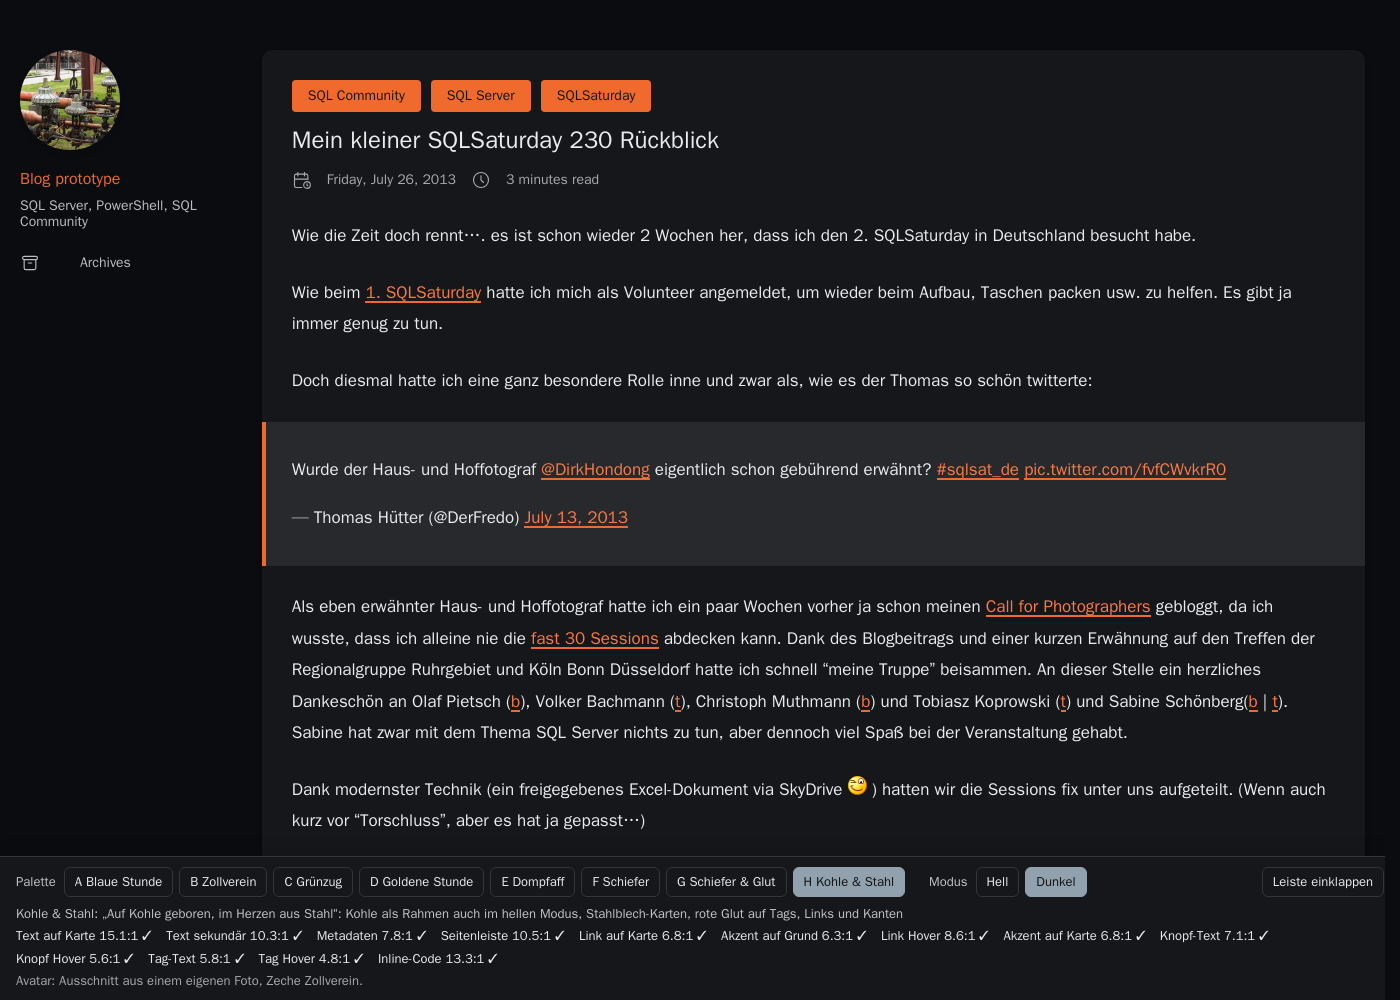
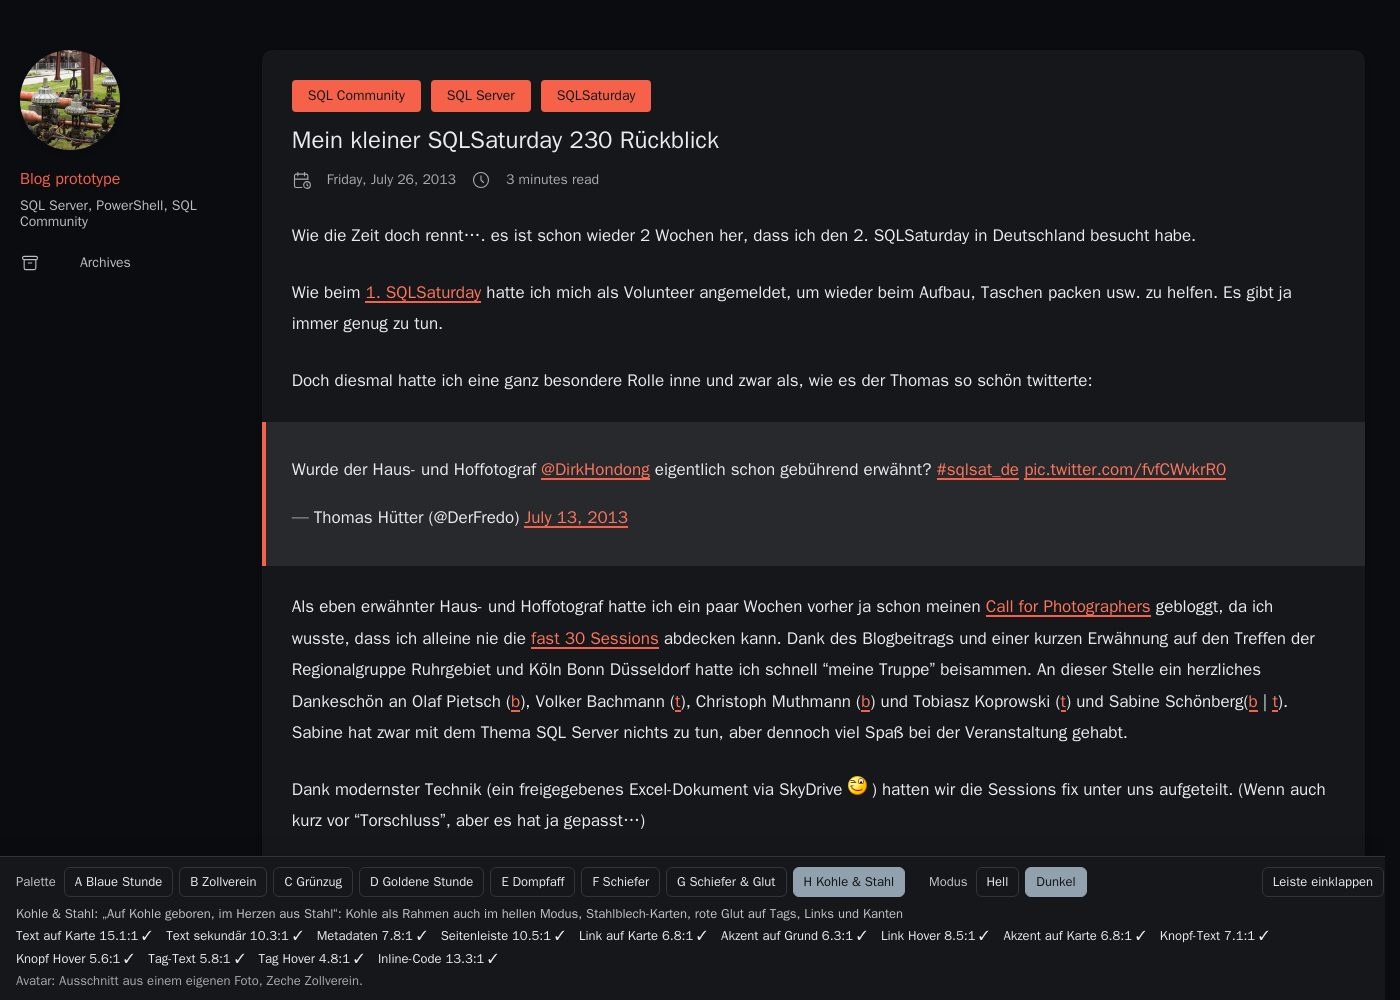
prototype: redder ember in H Kohle & Stahl, the chosen palette

Changed region(s): [[0.1843, 0.062, 0.4607, 0.124]]

diff --git a/prototype-colors/site/assets/scss/custom.scss b/prototype-colors/site/assets/scss/custom.scss
@@ -380,13 +380,13 @@
     --table-border-color: #cdd2d6;
     --accent-color: #364451;
     --accent-color-darker: #24323e;
-    --proto-link: #b5360e;
-    --proto-link-hover: #982700;
+    --proto-link: #b83025;
+    --proto-link-hover: #a0110c;
     --proto-glow-text: #12171b;
-    --proto-glow: #f1652e;
-    --proto-glow-hover: #df5519;
-    --proto-ground-accent: #f1652e;
-    --link-background-color: 251, 185, 162;
+    --proto-glow: #f55e47;
+    --proto-glow-hover: #e34d38;
+    --proto-ground-accent: #f55e47;
+    --link-background-color: 253, 182, 169;
 }
 
 :root[data-palette="h"][data-scheme="dark"] {
@@ -406,13 +406,13 @@
     --table-border-color: #45484b;
     --accent-color: #91a1ad;
     --accent-color-darker: #7f8f9a;
-    --proto-link: #fa7a45;
-    --proto-link-hover: #ff9971;
+    --proto-link: #fd765d;
+    --proto-link-hover: #fe9783;
     --proto-glow-text: #12171b;
-    --proto-glow: #f06a2e;
-    --proto-glow-hover: #de5a18;
-    --proto-ground-accent: #f06a2e;
-    --link-background-color: 133, 61, 31;
+    --proto-glow: #f56249;
+    --proto-glow-hover: #e35239;
+    --proto-ground-accent: #f56249;
+    --link-background-color: 136, 57, 43;
 }
 
 /* Single-colour category and tag pills instead of Stack's hashed rainbow (inline style, hence !important) */

diff --git a/prototype-colors/scripts/palettes.py b/prototype-colors/scripts/palettes.py
@@ -24,7 +24,7 @@ VARIANTS = [
          glow=(72, 0.150, 0.80), dark_glow=(74, 0.140, 0.80), dark_spot=(74, 0.130, 0.80)),
     dict(id='h', light_L=0.38, name='Kohle & Stahl', origin='„Auf Kohle geboren, im Herzen aus Stahl“: Kohle als Rahmen auch im hellen Modus, Stahlblech-Karten, rote Glut auf Tags, Links und Kanten',
          neutral=(245, 0.008), accent=(245, 0.028), dark_neutral=(250, 0.006), dark_accent=(240, 0.025),
-         glow=(40, 0.185, 0.66), dark_glow=(42, 0.180, 0.68), spot=(36, 0.170, 0.52), dark_spot=(42, 0.170, 0.72),
+         glow=(31, 0.190, 0.66), dark_glow=(32, 0.185, 0.68), spot=(29, 0.175, 0.52), dark_spot=(32, 0.170, 0.72),
          coal=True, dark_ground=0.155),
 ]
 

diff --git a/prototype-colors/README.md b/prototype-colors/README.md
@@ -23,11 +23,15 @@ Without Docker: screenshots in [`shots/`](shots/).
 | E | Dompfaff | `#a94341` | `#d8847e` | bullfinch: brick-rose breast, blue-grey back (estimated, not measured) |
 | F | Schiefer | `#3f4f60` | `#8fa1b0` | slate and steel grey as the only accent |
 | G | Schiefer & Glut | `#3a495a` + amber glow `#f8ac3d` | `#8fa1b0` + amber glow `#f3af49` | F's slate frame; amber as a bright surface: tag pills (coal-dark text), link underline, edge of headings and quotes |
-| H | Kohle & Stahl | `#364451` + ember glow `#f1652e` on a coal frame | `#91a1ad` + ember glow `#f06a2e` | "Auf Kohle geboren, im Herzen aus Stahl": coal-black ground and sidebar also in light mode, light steel cards, red ember on pills, links, site name, edges |
+| H | Kohle & Stahl | `#364451` + ember glow `#f55e47` on a coal frame | `#91a1ad` + ember glow `#f56249` | "Auf Kohle geboren, im Herzen aus Stahl": coal-black ground and sidebar also in light mode, light steel cards, red ember on pills, links, site name, edges |
 
 Anchors measured from the user's own Zollverein photos (Pillow, mean of image regions). The shared idea: a sparse,
 muted ground and one living spot of colour. G and H carry it literally: a glow (`glow`) as a bright surface, which may stay bright because its text is coal-dark,
 not as thin link text, which on white must be dark enough to look brown (round 2 lesson: the user saw no glow there).
+
+## Decision
+
+The user picked **H Kohle & Stahl** as the starting palette, with the ember shifted towards red (round 4).
 
 ## How
 
